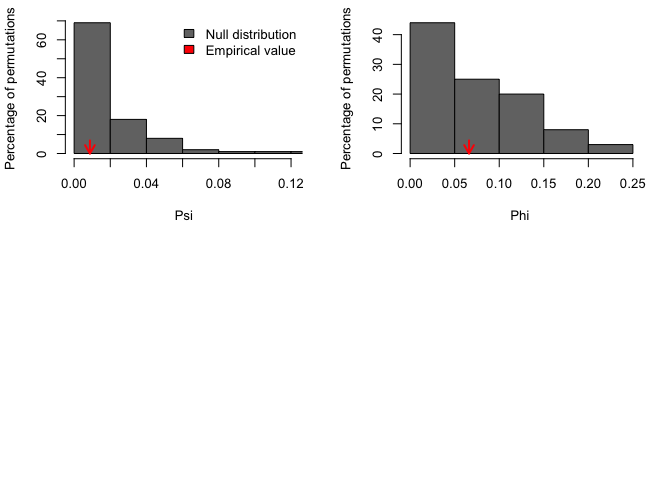
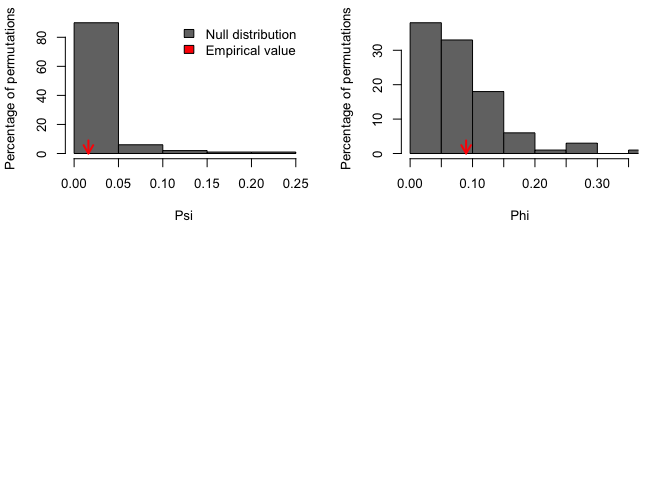
new commit

diff --git a/README.md b/README.md
@@ -44,8 +44,8 @@ result<-PCAtest(x, 100, 100, 0.05, corr=FALSE, plot=TRUE)
 #> 100 bootstrap replicates, 100 random permutations
 #> ========================================================
 #> 
-#> Empirical Psi = 0.0087, Max null Psi = 0.1215, Min null Psi = 0.0000, p-value = 0.48
-#> Empirical Phi = 0.0661, Max null Phi = 0.2465, Min null Phi = 0.0014, p-value = 0.48
+#> Empirical Psi = 0.0161, Max null Psi = 0.2477, Min null Psi = 0.0000, p-value = 0.4
+#> Empirical Phi = 0.0897, Max null Phi = 0.3519, Min null Phi = 9e-04, p-value = 0.4
 ```
 
 <img src="man/figures/README-example1-1.png" width="100%" />
@@ -62,11 +62,11 @@ PCAout<-PCAtest(x, 100, 100, 0.05, corr=FALSE, plot=TRUE)
 #> 100 bootstrap replicates, 100 random permutations
 #> ========================================================
 #> 
-#> Empirical Psi = 2.0000, Max null Psi = 0.1946, Min null Psi = 0.0000, p-value = 0
-#> Empirical Phi = 1.0000, Max null Phi = 0.3119, Min null Phi = 0.0020, p-value = 0
+#> Empirical Psi = 2.0000, Max null Psi = 0.1354, Min null Psi = 0.0000, p-value = 0
+#> Empirical Phi = 1.0000, Max null Phi = 0.2602, Min null Phi = 8e-04, p-value = 0
 #> 
-#> Empirical eigenvalue #1 = 2, Max null eigenvalue = 1.31192, p-value = 0
-#> Empirical eigenvalue #2 = 0, Max null eigenvalue = 0.99798, p-value = 1
+#> Empirical eigenvalue #1 = 2, Max null eigenvalue = 1.26021, p-value = 0
+#> Empirical eigenvalue #2 = 0, Max null eigenvalue = 0.99924, p-value = 1
 #> 
 #> PC 1 is significant and accounts for 100% (95%-CI:100-100) of the total variation
 #> 
@@ -74,30 +74,3 @@ PCAout<-PCAtest(x, 100, 100, 0.05, corr=FALSE, plot=TRUE)
 ```
 
 <img src="man/figures/README-example2-1.png" width="100%" />
-
-What is special about using `README.Rmd` instead of just `README.md`?
-You can include R chunks like so:
-
-``` r
-summary(cars)
-#>      speed           dist       
-#>  Min.   : 4.0   Min.   :  2.00  
-#>  1st Qu.:12.0   1st Qu.: 26.00  
-#>  Median :15.0   Median : 36.00  
-#>  Mean   :15.4   Mean   : 42.98  
-#>  3rd Qu.:19.0   3rd Qu.: 56.00  
-#>  Max.   :25.0   Max.   :120.00
-```
-
-You’ll still need to render `README.Rmd` regularly, to keep `README.md`
-up-to-date. `devtools::build_readme()` is handy for this. You could also
-use GitHub Actions to re-render `README.Rmd` every time you push. An
-example workflow can be found here:
-<https://github.com/r-lib/actions/tree/master/examples>.
-
-You can also embed plots, for example:
-
-<img src="man/figures/README-pressure-1.png" width="100%" />
-
-In that case, don’t forget to commit and push the resulting figure
-files, so they display on GitHub and CRAN.
